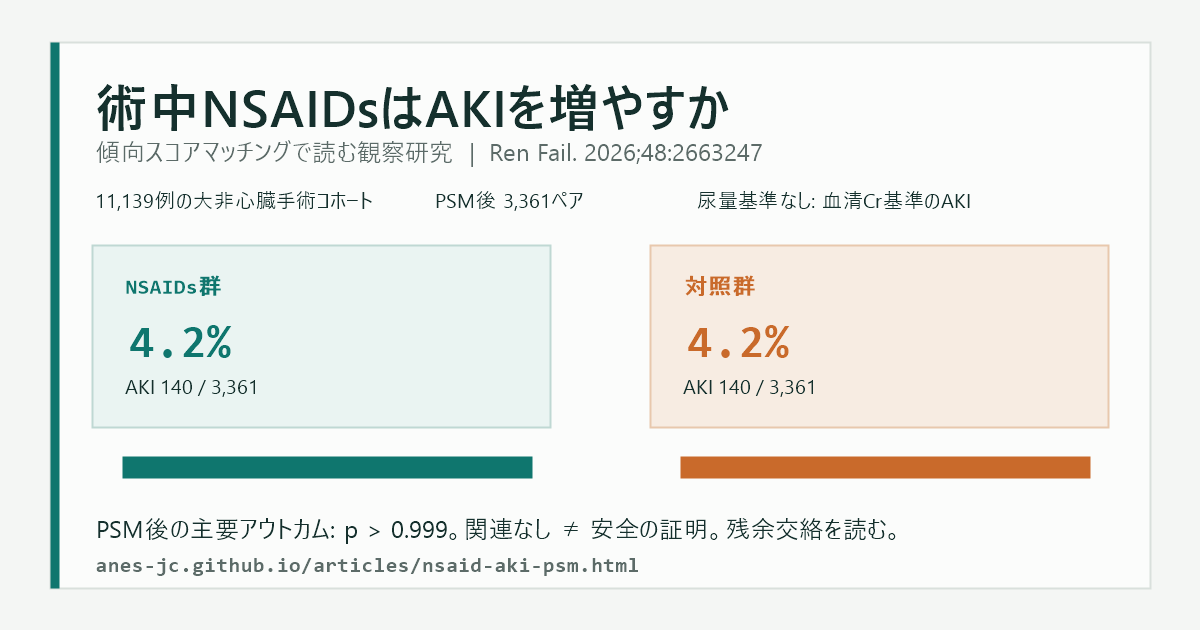
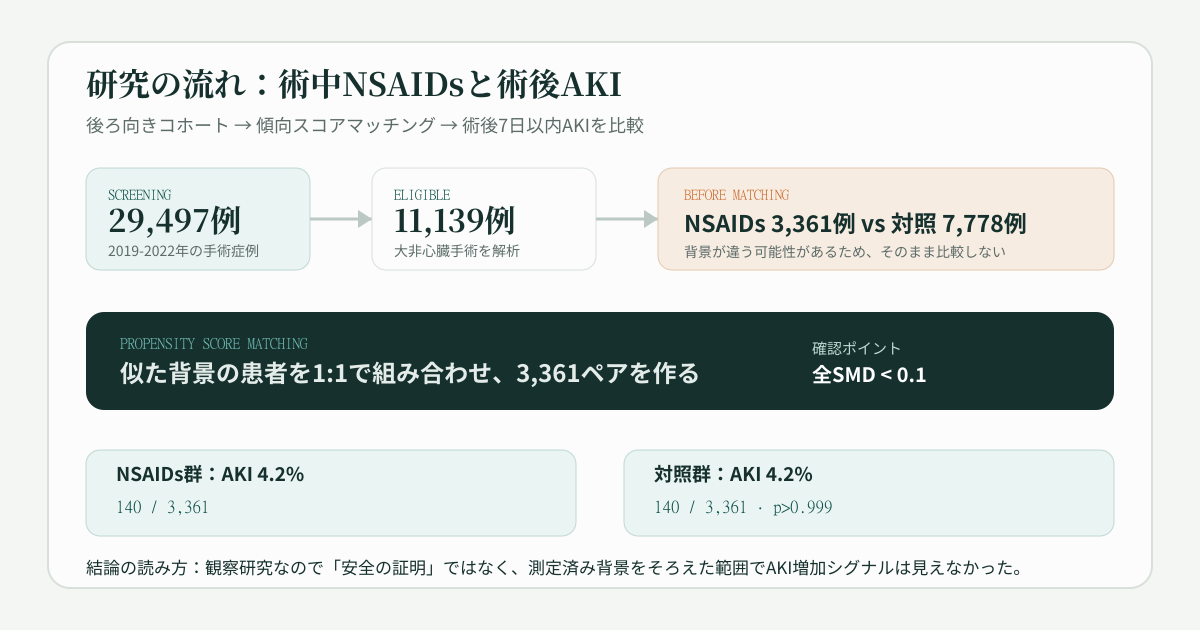
Update NSAID AKI article infographic

diff --git a/articles/nsaid-aki-psm.html b/articles/nsaid-aki-psm.html
@@ -270,7 +270,7 @@
         <tbody>
           <tr><td>propensity score</td><td class="hide-sm">傾向スコア</td><td>介入を受ける確率。交絡調整の道具</td></tr>
           <tr><td>matched pairs</td><td class="hide-sm">マッチしたペア</td><td>背景が近い介入群と対照群の組み合わせ</td></tr>
-          <tr><td>standardized mean difference</td><td class="hide-sm">標準化差</td><td>マッチング後の背景バランスを見る指標</td></tr>
+          <tr><td>standardized mean difference</td><td class="hide-sm">標準化差</td><td>背景差の目安。0.1（10%）未満なら概ね小さい、0.1以上ならまだ差が残るサイン</td></tr>
           <tr><td>residual confounding</td><td class="hide-sm">残余交絡</td><td>調整後にも残る測定不能・不十分な交絡</td></tr>
         </tbody>
       </table>
@@ -288,45 +288,48 @@
   <div class="sec">
     <div class="sechd"><span class="no">11</span><h2>インフォグラフィック</h2></div>
     <div class="info-wrap">
-      <svg class="info" viewBox="0 0 1200 630" role="img" aria-label="術中NSAIDsと術後AKIの傾向スコアマッチング研究の要約。PSM後のAKIはNSAIDs群4.2%、対照群4.2%。">
+      <svg class="info" viewBox="0 0 1200 630" role="img" aria-label="術中NSAIDsと術後AKI研究の流れ。29,497例をスクリーニングし、11,139例を解析、傾向スコアマッチングで3,361ペアを作り、術後7日以内AKIを比較した。">
         <rect width="1200" height="630" fill="#F4F6F4"/>
         <rect x="48" y="42" width="1104" height="546" rx="22" fill="#FBFCFB" stroke="#D9E0DC" stroke-width="2"/>
-        <text x="86" y="98" font-family="Noto Serif JP, serif" font-size="34" font-weight="700" fill="#15302D">術中NSAIDsはAKIを増やすか</text>
-        <text x="86" y="136" font-family="Noto Sans JP, sans-serif" font-size="19" fill="#5C6B68">大非心臓手術11,139例 · 傾向スコアマッチング後3,361ペア</text>
+        <text x="86" y="96" font-family="Noto Serif JP, serif" font-size="32" font-weight="700" fill="#15302D">研究の流れ：術中NSAIDsと術後AKI</text>
+        <text x="86" y="132" font-family="Noto Sans JP, sans-serif" font-size="18" fill="#5C6B68">後ろ向きコホート → 傾向スコアマッチング → 術後7日以内AKIを比較</text>
 
-        <rect x="86" y="174" width="308" height="122" rx="14" fill="#EAF4F2" stroke="#BFD8D3"/>
-        <text x="112" y="216" font-family="JetBrains Mono, monospace" font-size="16" fill="#0B4F4A">STEP 1</text>
-        <text x="112" y="250" font-family="Noto Sans JP, sans-serif" font-size="21" font-weight="700" fill="#15302D">治療選択の偏り</text>
-        <text x="112" y="278" font-family="Noto Sans JP, sans-serif" font-size="15" fill="#5C6B68">NSAIDsを使う患者と使わない患者は違う</text>
+        <rect x="86" y="168" width="224" height="102" rx="14" fill="#EAF4F2" stroke="#BFD8D3"/>
+        <text x="108" y="199" font-family="JetBrains Mono, monospace" font-size="14" fill="#0B4F4A">SCREENING</text>
+        <text x="108" y="232" font-family="Noto Serif JP, serif" font-size="31" font-weight="700" fill="#15302D">29,497例</text>
+        <text x="108" y="256" font-family="Noto Sans JP, sans-serif" font-size="14" fill="#5C6B68">2019-2022年の手術症例</text>
 
-        <rect x="446" y="174" width="308" height="122" rx="14" fill="#F7ECE2" stroke="#E4C9AF"/>
-        <text x="472" y="216" font-family="JetBrains Mono, monospace" font-size="16" fill="#C96A2B">STEP 2</text>
-        <text x="472" y="250" font-family="Noto Sans JP, sans-serif" font-size="21" font-weight="700" fill="#15302D">PSMで近づける</text>
-        <text x="472" y="278" font-family="Noto Sans JP, sans-serif" font-size="15" fill="#5C6B68">SMD &lt;10%で背景バランスを確認</text>
+        <line x1="310" y1="219" x2="372" y2="219" stroke="#BCC8C3" stroke-width="3"/>
+        <polygon points="372,219 358,210 358,228" fill="#BCC8C3"/>
 
-        <rect x="806" y="174" width="308" height="122" rx="14" fill="#EAF4F2" stroke="#BFD8D3"/>
-        <text x="832" y="216" font-family="JetBrains Mono, monospace" font-size="16" fill="#0B4F4A">STEP 3</text>
-        <text x="832" y="250" font-family="Noto Sans JP, sans-serif" font-size="21" font-weight="700" fill="#15302D">残余交絡を疑う</text>
-        <text x="832" y="278" font-family="Noto Sans JP, sans-serif" font-size="15" fill="#5C6B68">測っていない判断は補正できない</text>
+        <rect x="372" y="168" width="224" height="102" rx="14" fill="#FBFCFB" stroke="#D9E0DC"/>
+        <text x="394" y="199" font-family="JetBrains Mono, monospace" font-size="14" fill="#0B4F4A">ELIGIBLE</text>
+        <text x="394" y="232" font-family="Noto Serif JP, serif" font-size="31" font-weight="700" fill="#15302D">11,139例</text>
+        <text x="394" y="256" font-family="Noto Sans JP, sans-serif" font-size="14" fill="#5C6B68">大非心臓手術を解析</text>
 
-        <line x1="394" y1="235" x2="446" y2="235" stroke="#BCC8C3" stroke-width="3"/>
-        <polygon points="446,235 432,226 432,244" fill="#BCC8C3"/>
-        <line x1="754" y1="235" x2="806" y2="235" stroke="#BCC8C3" stroke-width="3"/>
-        <polygon points="806,235 792,226 792,244" fill="#BCC8C3"/>
+        <line x1="596" y1="219" x2="658" y2="219" stroke="#BCC8C3" stroke-width="3"/>
+        <polygon points="658,219 644,210 644,228" fill="#BCC8C3"/>
 
-        <text x="86" y="354" font-family="JetBrains Mono, monospace" font-size="18" font-weight="700" fill="#0B4F4A">PRIMARY OUTCOME · AKI within 7 days after surgery</text>
-        <rect x="86" y="384" width="480" height="96" rx="14" fill="#15302D"/>
-        <text x="118" y="426" font-family="Noto Sans JP, sans-serif" font-size="21" fill="#E4ECE9">NSAIDs群</text>
-        <text x="118" y="465" font-family="Noto Serif JP, serif" font-size="38" font-weight="700" fill="#6FBCB3">4.2%</text>
-        <text x="224" y="462" font-family="JetBrains Mono, monospace" font-size="17" fill="#BFD8D3">140 / 3,361</text>
+        <rect x="658" y="168" width="456" height="102" rx="14" fill="#F7ECE2" stroke="#E4C9AF"/>
+        <text x="684" y="199" font-family="JetBrains Mono, monospace" font-size="14" fill="#C96A2B">BEFORE MATCHING</text>
+        <text x="684" y="232" font-family="Noto Sans JP, sans-serif" font-size="23" font-weight="700" fill="#15302D">NSAIDs 3,361例 vs 対照 7,778例</text>
+        <text x="684" y="257" font-family="Noto Sans JP, sans-serif" font-size="14" fill="#5C6B68">背景が違う可能性があるため、そのまま比較しない</text>
 
-        <rect x="634" y="384" width="480" height="96" rx="14" fill="#15302D"/>
-        <text x="666" y="426" font-family="Noto Sans JP, sans-serif" font-size="21" fill="#E4ECE9">対照群</text>
-        <text x="666" y="465" font-family="Noto Serif JP, serif" font-size="38" font-weight="700" fill="#6FBCB3">4.2%</text>
-        <text x="772" y="462" font-family="JetBrains Mono, monospace" font-size="17" fill="#BFD8D3">140 / 3,361</text>
+        <rect x="86" y="312" width="1028" height="98" rx="18" fill="#15302D"/>
+        <text x="120" y="348" font-family="JetBrains Mono, monospace" font-size="15" fill="#6FBCB3">PROPENSITY SCORE MATCHING</text>
+        <text x="120" y="382" font-family="Noto Sans JP, sans-serif" font-size="24" font-weight="700" fill="#E4ECE9">似た背景の患者を1:1で組み合わせ、3,361ペアを作る</text>
+        <text x="812" y="354" font-family="Noto Sans JP, sans-serif" font-size="15" fill="#BFD8D3">確認ポイント</text>
+        <text x="812" y="382" font-family="Noto Sans JP, sans-serif" font-size="20" font-weight="700" fill="#FFFFFF">全SMD &lt; 0.1</text>
 
-        <rect x="86" y="512" width="1028" height="48" rx="24" fill="#F7ECE2" stroke="#E4C9AF"/>
-        <text x="112" y="543" font-family="Noto Sans JP, sans-serif" font-size="18" fill="#15302D">読み方：関連なしは「安全の証明」ではない。測定済み交絡をそろえた範囲で、AKI増加シグナルは見えなかった。</text>
+        <rect x="86" y="450" width="490" height="86" rx="14" fill="#EAF4F2" stroke="#BFD8D3"/>
+        <text x="116" y="481" font-family="Noto Sans JP, sans-serif" font-size="19" font-weight="700" fill="#15302D">NSAIDs群：AKI 4.2%</text>
+        <text x="116" y="512" font-family="JetBrains Mono, monospace" font-size="17" fill="#0B4F4A">140 / 3,361</text>
+
+        <rect x="624" y="450" width="490" height="86" rx="14" fill="#EAF4F2" stroke="#BFD8D3"/>
+        <text x="654" y="481" font-family="Noto Sans JP, sans-serif" font-size="19" font-weight="700" fill="#15302D">対照群：AKI 4.2%</text>
+        <text x="654" y="512" font-family="JetBrains Mono, monospace" font-size="17" fill="#0B4F4A">140 / 3,361 · p&gt;0.999</text>
+
+        <text x="86" y="574" font-family="Noto Sans JP, sans-serif" font-size="17" fill="#15302D">結論の読み方：観察研究なので「安全の証明」ではなく、測定済み背景をそろえた範囲でAKI増加シグナルは見えなかった。</text>
       </svg>
       <div class="info-cap">独自作成インフォグラフィック。Zhang C, et al. Ren Fail. 2026;48:2663247 の主要結果を独自に作図。図表の転載ではありません。</div>
     </div>